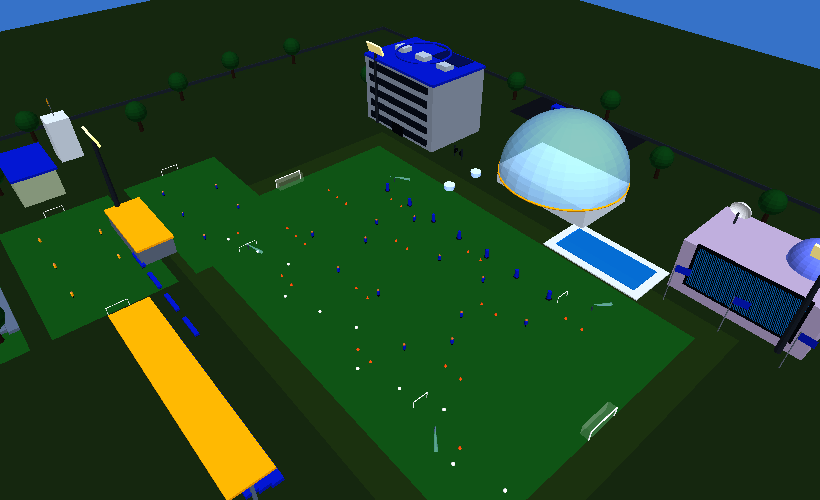
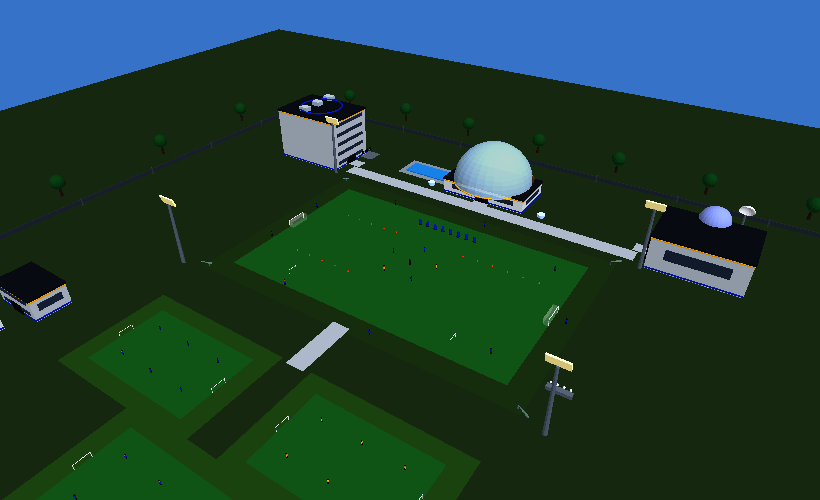
Antrenman kompleksi: garip duran bölgeler düzeltildi (yol/saha çakışmaları, tribün)
- Zemin katmanları ayrıldı (slab yüksekliği parametrik): patikalar apronun
  üstünde, çimden altta → üst üste binen yüzeylerde z-fighting/şerit kalmadı
- Saha → altyapı patikası mini sahaların üzerinden geçmiyor, patikalar
  binaların altına girmiyor
- Veli tribünü açık basamağa çevrildi: tepeden bakınca koyu blok gibi görünen
  çatı kaldırıldı; kulüp rengi koltuk şeritleri + arka/yan duvar + aksan bandı
- Altyapı bölgesi yeniden düzenlendi: mini sahaların altına bakımlı zemin
  şeridi, bina/lokal/kule iki yanda simetrik, tribün hiçbir şeyle çakışmıyor
- Otopark ve servis minibüsü taşındı + gerçek araç silueti (tekerlek, ön cam,
  tampon) — çimende duran blok görünümü gitti
- Kukla sırası ortalandı, buz banyoları binanın iki yanına simetrik yerleşti,
  ısınma turu saha çevresindeki apron ringine oturdu
- Bölge yakın çekim önizlemeleri eklendi (kuzey bina sırası / güney altyapı)

diff --git a/src/components/facility/scene.ts b/src/components/facility/scene.ts
@@ -207,14 +207,14 @@ function building(opts: {
   return g;
 }
 
-/** Zemin kaplaması (plaza / beton alan) */
-function slab(w: number, d: number, x: number, z: number, color: number) {
+/** Zemin kaplaması (plaza / beton alan) — katmanlar farklı y'de durur, z-fighting olmaz */
+function slab(w: number, d: number, x: number, z: number, color: number, y = 0.012) {
   const m = new THREE.Mesh(
     new THREE.PlaneGeometry(w, d),
     new THREE.MeshStandardMaterial({ color, roughness: 0.95 })
   );
   m.rotation.x = -Math.PI / 2;
-  m.position.set(x, 0.012, z);
+  m.position.set(x, y, z);
   m.receiveShadow = true;
   return m;
 }
@@ -397,9 +397,10 @@ export function buildTrainingComplex(opts: TrainingComplexOptions): TrainingComp
   // Antrenman kuklaları — tek düzenli sıra (seviye 3+)
   if (n.pitch >= 3) {
     const count = 3 + n.pitch;
+    const gap = 3.2;
     for (let i = 0; i < count; i++) {
       const d = dummy(clubColor);
-      d.position.set(-8 + i * (16 / count) * 1.6, 0, -24);
+      d.position.set(-((count - 1) * gap) / 2 + i * gap, 0, -24);
       group.add(d);
     }
   }
@@ -441,11 +442,12 @@ export function buildTrainingComplex(opts: TrainingComplexOptions): TrainingComp
 
   /* ── İnce patikalar: sahadan binalara (çakışmayan, sade) ── */
   const pathColor = night ? C.plazaNight : C.plaza;
-  group.add(slab(140, 6, 0, -46, pathColor));     // kampüs yolu: üç binanın önünden geçer
-  group.add(slab(6, 7, 0, -52, pathColor));       // yol → rejenerasyon merkezi
-  group.add(slab(6, 12, 0, 44, pathColor));       // saha → altyapı alanı
-  group.add(slab(6, 6, -65, -52, pathColor));     // yol → fitness girişi
-  group.add(slab(6, 6, 65, -52, pathColor));      // yol → analiz girişi
+  const PATH_Y = 0.018; // apronun üzerinde, çimden altta → çakışma yok
+  group.add(slab(122, 6, 0, -46, pathColor, PATH_Y));   // kampüs yolu: üç binanın önünden geçer
+  group.add(slab(6, 5, 0, -48.5, pathColor, PATH_Y));   // yol → rejenerasyon merkezi girişi
+  group.add(slab(6, 5, -62, -52, pathColor, PATH_Y));   // yol → fitness girişi
+  group.add(slab(6, 5, 62, -52, pathColor, PATH_Y));    // yol → analiz girişi
+  group.add(slab(6, 20, 0, 46, pathColor, PATH_Y));     // saha → altyapı alanı (mini sahalara değmez)
 
   /* 🏋 Fitness & Kondisyon Salonu — batı, sahaya bakar (seviye = kat) */
   {
@@ -555,7 +557,7 @@ export function buildTrainingComplex(opts: TrainingComplexOptions): TrainingComp
       const iceMat = new THREE.MeshStandardMaterial({ color: 0xdbeafe, roughness: 0.25, metalness: 0.15, emissive: new THREE.Color(0x3b82f6), emissiveIntensity: 0.2 });
       [-24, 24].forEach(x => {
         const tub = new THREE.Mesh(new THREE.CylinderGeometry(1.45, 1.3, 1.25, 18), iceMat);
-        tub.position.set(x, 0.62, -56);
+        tub.position.set(x, 0.62, -53);
         tub.castShadow = true;
         group.add(tub);
       });
@@ -647,14 +649,14 @@ export function buildTrainingComplex(opts: TrainingComplexOptions): TrainingComp
     }
   }
 
-  /* 🎓 Altyapı Sahası & Gençlik Merkezi — güneyde simetrik mini sahalar */
+  /* 🎓 Altyapı Sahası & Gençlik Merkezi — güneyde düzenli mini saha kampüsü */
   {
     const count = Math.min(3, n.youth);
-    // Mini sahalar: tek saha ortada, iki saha yan yana, üç saha üçgen/yan yana
+    // Yerleşim: 1 saha ortada, 2 saha simetrik yan yana, 3 saha "üçgen" düzeni
     const layout: { x: number; z: number }[] =
-      count === 1 ? [{ x: 0, z: 66 }]
-      : count === 2 ? [{ x: -28, z: 66 }, { x: 28, z: 66 }]
-      : [{ x: -34, z: 66 }, { x: 34, z: 66 }, { x: 0, z: 92 }];
+      count === 1 ? [{ x: 0, z: 72 }]
+      : count === 2 ? [{ x: -30, z: 72 }, { x: 30, z: 72 }]
+      : [{ x: -30, z: 72 }, { x: 30, z: 72 }, { x: 0, z: 104 }];
 
     layout.forEach((pos, idx) => {
       const tex = turfTexture(Math.min(FACILITY_MAX_LEVEL, n.youth + 1), false, '⚽');
@@ -663,6 +665,8 @@ export function buildTrainingComplex(opts: TrainingComplexOptions): TrainingComp
         roughness: 0.94,
       });
       if (tex) mat.map = tex;
+      // Zemin şeridi (mini sahanın oturduğu bakımlı alan)
+      group.add(slab(50, 34, pos.x, pos.z, night ? 0x2a3f28 : 0x53803f));
       const mini = new THREE.Mesh(new THREE.PlaneGeometry(38, 24), mat);
       mini.rotation.x = -Math.PI / 2;
       mini.position.set(pos.x, 0.02, pos.z);
@@ -693,51 +697,66 @@ export function buildTrainingComplex(opts: TrainingComplexOptions): TrainingComp
       }
     });
 
-    // Altyapı binası + lokal (seviyeye göre büyür)
+    // Altyapı binası + lokal + kule — mini sahaların iki yanında simetrik
     const h = 4.2 + n.youth * 0.6;
     const academy = building({
       w: 18, d: 11, h,
       wall, accent, clubColor, night,
       floors: Math.max(1, Math.floor(n.youth / 2)),
     });
-    academy.position.set(-74, 0, 78);
+    academy.position.set(-84, 0, 78);
     group.add(academy);
-    // İkinci lokal (seviye 3+)
     if (n.youth >= 3) {
-      const annex = building({ w: 12, d: 9, h: 4.6, wall: wallAlt, accent, clubColor, night, floors: 1, entrance: false });
-      annex.position.set(74, 0, 78);
+      const annex = building({ w: 14, d: 10, h: 4.8, wall: wallAlt, accent, clubColor, night, floors: 1, entrance: false });
+      annex.position.set(84, 0, 78);
       group.add(annex);
     }
-    // Veli tribünü — tek parça, düzenli basamak (seviye 4+)
-    if (n.youth >= 4) {
-      const standMat = new THREE.MeshStandardMaterial({ color: 0x9aa4b0, roughness: 0.9 });
-      for (let r = 0; r < 3; r++) {
-        const row = new THREE.Mesh(new THREE.BoxGeometry(44, 0.7, 1.9), standMat);
-        row.position.set(0, 0.5 + r * 0.8, 84 + r * 2);
-        row.castShadow = true;
-        group.add(row);
-      }
-      const roof = new THREE.Mesh(
-        new THREE.BoxGeometry(46, 0.45, 8),
-        new THREE.MeshStandardMaterial({ color: night ? C.roofNight : C.roof, roughness: 0.7, metalness: 0.2 })
-      );
-      roof.position.set(0, 6.4, 88);
-      roof.castShadow = true;
-      group.add(roof);
-      [-22, 22].forEach(x => {
-        const col = new THREE.Mesh(
-          new THREE.CylinderGeometry(0.28, 0.28, 6.4, 10),
-          new THREE.MeshStandardMaterial({ color: C.steel, metalness: 0.5, roughness: 0.45 })
-        );
-        col.position.set(x, 3.2, 88);
-        group.add(col);
-      });
-    }
-    // Gençlik kulesi (seviye 5) — simetrik, köşede
     if (n.youth >= 5) {
       const tower = building({ w: 8, d: 8, h: 13, wall: wallAlt, accent, clubColor, night, floors: 3, entrance: false });
-      tower.position.set(-74, 0, 96);
+      tower.position.set(-84, 0, 94);
       group.add(tower);
+    }
+    // Veli tribünü — açık basamaklar (çatısız: tepeden bakınca koyu blok gibi görünmez)
+    if (n.youth >= 4) {
+      const stepMat = new THREE.MeshStandardMaterial({ color: night ? 0x8d939d : 0xc3cad3, roughness: 0.92 });
+      const seatStripMat = new THREE.MeshStandardMaterial({ color: new THREE.Color(clubColor), roughness: 0.75 });
+      for (let r = 0; r < 4; r++) {
+        const d = 2.1;
+        const step = new THREE.Mesh(new THREE.BoxGeometry(46, 0.8 + r * 0.75, d), stepMat);
+        step.position.set(0, (0.8 + r * 0.75) / 2, 124 + r * d);
+        step.castShadow = true;
+        step.receiveShadow = true;
+        group.add(step);
+        // Basamak üstünde kulüp rengi koltuk şeridi
+        const strip = new THREE.Mesh(new THREE.BoxGeometry(44, 0.16, 1.0), seatStripMat);
+        strip.position.set(0, 0.88 + r * 0.75, 124 + r * d);
+        group.add(strip);
+      }
+      // Arka duvar (güney taraf)
+      const back = new THREE.Mesh(
+        new THREE.BoxGeometry(46, 3.4, 0.7),
+        new THREE.MeshStandardMaterial({ color: night ? 0x3d475c : 0xdfe4ea, roughness: 0.85 })
+      );
+      back.position.set(0, 1.7, 132.4);
+      back.castShadow = true;
+      group.add(back);
+      // Kenar duvarları — kapalı kutu hissi
+      [-23, 23].forEach(x => {
+        const side = new THREE.Mesh(
+          new THREE.BoxGeometry(0.6, 3.4, 9.4),
+          new THREE.MeshStandardMaterial({ color: night ? 0x39445a : 0xd3dae1, roughness: 0.88 })
+        );
+        side.position.set(x, 1.7, 128.4);
+        side.castShadow = true;
+        group.add(side);
+      });
+      // Kulüp rengi aksan bandı — ön kenar
+      const front = new THREE.Mesh(
+        new THREE.BoxGeometry(46, 0.5, 0.5),
+        new THREE.MeshStandardMaterial({ color: new THREE.Color(accent), roughness: 0.6 })
+      );
+      front.position.set(0, 0.35, 123.2);
+      group.add(front);
     }
   }
 
@@ -775,7 +794,7 @@ export function buildTrainingComplex(opts: TrainingComplexOptions): TrainingComp
     for (let i = 0; i < count; i++) {
       const fig = footballer(clubColor);
       const angle = (i / count) * Math.PI * 2;
-      fig.position.set(Math.cos(angle) * 63, 0, Math.sin(angle) * 42);
+      fig.position.set(Math.cos(angle) * 54, 0, Math.sin(angle) * 35.5);
       fig.rotation.y = -angle;
       group.add(fig);
       runners.push({ fig, angle });
@@ -798,7 +817,7 @@ export function buildTrainingComplex(opts: TrainingComplexOptions): TrainingComp
   {
     const fenceMat = new THREE.MeshStandardMaterial({ color: 0x5b6675, metalness: 0.45, roughness: 0.55 });
     const railMat = new THREE.MeshStandardMaterial({ color: 0x707c8b, metalness: 0.4, roughness: 0.6 });
-    const minX = -128, maxX = 128, minZ = -92, maxZ = 116;
+    const minX = -128, maxX = 128, minZ = -92, maxZ = 150;
     const w = maxX - minX, d = maxZ - minZ;
     // Çit: 4 kenar — alt ray
     [[0, minZ, w, 0.4], [0, maxZ, w, 0.4], [minX, (minZ + maxZ) / 2, 0.4, d], [maxX, (minZ + maxZ) / 2, 0.4, d]].forEach(([x, z, bw, bd]) => {
@@ -832,8 +851,8 @@ export function buildTrainingComplex(opts: TrainingComplexOptions): TrainingComp
       trees.push([x, minZ - 14]);
       trees.push([x, maxZ + 14]);
     }
-    for (let i = 0; i < 4; i++) {
-      const z = -60 + i * 44;
+    for (let i = 0; i < 5; i++) {
+      const z = -60 + i * 48;
       trees.push([minX - 14, z]);
       trees.push([maxX + 14, z]);
     }
@@ -850,28 +869,43 @@ export function buildTrainingComplex(opts: TrainingComplexOptions): TrainingComp
     });
 
     // Otopark + kulüp servis minibüsü — güneybatı köşesi, düzenli
-    group.add(slab(44, 20, -96, 104, night ? 0x2f3644 : 0x767f8c));
+    group.add(slab(48, 22, -96, 128, night ? 0x2f3644 : 0x767f8c));
     const lotLines = new THREE.MeshStandardMaterial({ color: 0xe2e8f0, roughness: 0.8 });
     for (let i = 0; i < 5; i++) {
-      const line = new THREE.Mesh(new THREE.PlaneGeometry(0.3, 8), lotLines);
+      const line = new THREE.Mesh(new THREE.PlaneGeometry(0.3, 9), lotLines);
       line.rotation.x = -Math.PI / 2;
-      line.position.set(-114 + i * 9, 0.03, 104);
+      line.position.set(-115 + i * 9.5, 0.03, 128);
       group.add(line);
     }
+    // Kulüp servis minibüsü (tekerlekli, gerçek araç silueti)
     const bus = new THREE.Group();
-    const body = new THREE.Mesh(
-      new THREE.BoxGeometry(12, 3.2, 3),
-      new THREE.MeshStandardMaterial({ color: new THREE.Color(clubColor), roughness: 0.45, metalness: 0.2 })
-    );
-    body.position.y = 1.9;
+    const busBodyMat = new THREE.MeshStandardMaterial({ color: new THREE.Color(clubColor), roughness: 0.42, metalness: 0.25 });
+    const body = new THREE.Mesh(new THREE.BoxGeometry(12, 2.6, 3), busBodyMat);
+    body.position.y = 2.1;
     body.castShadow = true;
+    const roofBlock = new THREE.Mesh(new THREE.BoxGeometry(11.2, 0.5, 2.9), busBodyMat);
+    roofBlock.position.y = 3.6;
     const windows = new THREE.Mesh(
-      new THREE.BoxGeometry(10.4, 1.2, 3.05),
+      new THREE.BoxGeometry(10.6, 1.1, 3.06),
       new THREE.MeshStandardMaterial({ color: night ? 0x2c3a52 : 0x51637d, roughness: 0.15, metalness: 0.6, emissive: new THREE.Color(night ? 0xffd9a0 : 0x0c1626), emissiveIntensity: night ? 0.35 : 0.05 })
     );
-    windows.position.y = 2.6;
-    bus.add(body, windows);
-    bus.position.set(-104, 0, 96);
+    windows.position.y = 2.8;
+    const windshield = new THREE.Mesh(new THREE.BoxGeometry(0.3, 1.3, 2.6), new THREE.MeshStandardMaterial({ color: night ? 0x33445e : 0x5b6f8a, roughness: 0.12, metalness: 0.6 }));
+    windshield.position.set(6.0, 2.5, 0);
+    const wheelMat = new THREE.MeshStandardMaterial({ color: 0x14181f, roughness: 0.9 });
+    const wheelGeo = new THREE.CylinderGeometry(0.62, 0.62, 0.42, 14);
+    [[-3.9, 1.52], [3.9, 1.52], [-3.9, -1.52], [3.9, -1.52]].forEach(([wx, wz]) => {
+      const wheel = new THREE.Mesh(wheelGeo, wheelMat);
+      wheel.rotation.x = Math.PI / 2;
+      wheel.position.set(wx, 0.62, wz);
+      wheel.castShadow = true;
+      bus.add(wheel);
+    });
+    const bumper = new THREE.Mesh(new THREE.BoxGeometry(0.5, 0.7, 2.9), new THREE.MeshStandardMaterial({ color: 0x39414d, roughness: 0.7, metalness: 0.3 }));
+    bumper.position.set(6.15, 1.15, 0);
+    bus.add(body, roofBlock, windows, windshield, bumper);
+    bus.position.set(-108, 0, 122);
+    bus.rotation.y = Math.PI / 2;
     group.add(bus);
   }
 
@@ -926,7 +960,7 @@ export function buildTrainingComplex(opts: TrainingComplexOptions): TrainingComp
     // Isınma turu: hepsi aynı hızda → aralıklar bozulmaz, düzenli görünür
     runners.forEach(r => {
       r.angle += dt * 0.12;
-      r.fig.position.set(Math.cos(r.angle) * 63, Math.abs(Math.sin(t * 5 + r.angle * 3)) * 0.07, Math.sin(r.angle) * 42);
+      r.fig.position.set(Math.cos(r.angle) * 54, Math.abs(Math.sin(t * 5 + r.angle * 3)) * 0.07, Math.sin(r.angle) * 35.5);
       r.fig.rotation.y = -r.angle;
     });
     sprinklers.forEach((s, i) => { s.rotation.y = Math.sin(t * 0.5 + i) * 0.9; });
@@ -943,9 +977,9 @@ export function buildTrainingComplex(opts: TrainingComplexOptions): TrainingComp
   return {
     group,
     update,
-    camera: { radius: 182, phi: 0.96, theta: 0.6, targetY: 5, fov: 46 },
+    camera: { radius: 188, phi: 0.98, theta: 0.58, targetY: 6, fov: 46 },
     sky: night ? '#0a1024' : '#7fb2e5',
-    fog: night ? ['#0a1024', 240, 580] : ['#7fb2e5', 260, 620],
+    fog: night ? ['#0a1024', 260, 620] : ['#7fb2e5', 280, 660],
     levels: { pitch: n.pitch, gym: n.gym, recovery: n.recovery, tactics: n.tactics, youth: n.youth },
     triCount: () => {
       let total = 0;

diff --git a/tools/render-3d-preview.tsx b/tools/render-3d-preview.tsx
@@ -333,6 +333,32 @@ if (levelTiles.length > 0) {
   console.log(`\n📄 ${composeSheet(levelTiles, 2, `${OUT_DIR}/preview-antrenman-seviyeler.png`)}`);
 }
 
+// Bölge yakın çekimleri: güney altyapı alanı + kuzey bina sırası (düzen kontrolü)
+{
+  const zoneCases: { name: string; facility: FacilityState; theta: number; zoom: number; target: { x: number; z: number }; dPhi?: number }[] = [
+    { name: 'preview-antrenman-bolge-guney.png', facility: { pitch: 3, gym: 3, recovery: 3, tactics: 3, youth: 4 }, theta: 0.15, zoom: 0.62, target: { x: 0, z: 92 }, dPhi: -0.18 },
+    { name: 'preview-antrenman-bolge-kuzey.png', facility: { pitch: 3, gym: 3, recovery: 3, tactics: 3, youth: 4 }, theta: 0.9, zoom: 0.68, target: { x: 0, z: -48 }, dPhi: -0.2 },
+  ];
+  const zoneTiles: { buf: Uint8Array; label: string }[] = [];
+  zoneCases.forEach(z => {
+    const bundle = buildTrainingComplex({ facility: z.facility, logo: '🦁', night: false, clubColor: '#1d4ed8', accentColor: '#f8fafc' });
+    bundle.update(1.2, 0.016);
+    const buffer = renderToBuffer(bundle.group, {
+      radius: bundle.camera.radius * z.zoom,
+      phi: bundle.camera.phi + (z.dPhi ?? 0),
+      theta: z.theta,
+      targetX: z.target.x,
+      targetY: 3,
+      targetZ: z.target.z,
+      fov: 46,
+    }, { sky: bundle.sky, fog: bundle.fog, night: false });
+    writePNG(`${OUT_DIR}/${z.name}`, buffer, W, H);
+    zoneTiles.push({ buf: buffer, label: z.name });
+    console.log(`🔍 ${z.name} üretildi`);
+  });
+  console.log(`\n📄 ${composeSheet(zoneTiles, 2, `${OUT_DIR}/preview-antrenman-bolgeler.png`)}`);
+}
+
 // Özet montaj: gündüz (sv.3) • gece (sv.5) • sv.1 • sv.5 — tek görselde
 {
   const montage: { buf: Uint8Array; label: string }[] = [
